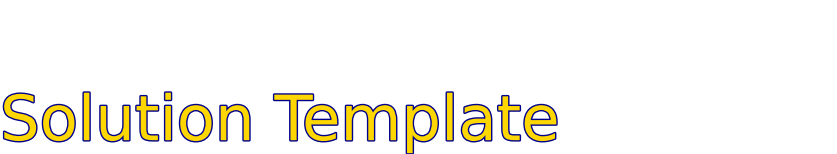
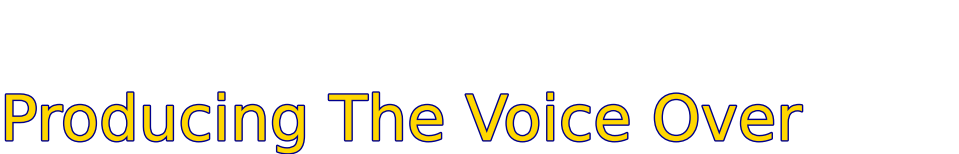
Automated 2024-10-27 commit

Changed region(s): [[0.0, 0.5974, 0.8387, 1.0]]

diff --git a/Producing The Voice Over.html b/Producing The Voice Over.html
@@ -1,0 +1,73 @@
+
+    <!DOCTYPE html>
+    <html lang="en">
+    <head>
+        <meta charset="UTF-8">
+        <meta name="viewport" content="width=device-width, initial-scale=1.0">
+        <title>Producing The Voice Over.html</title>
+        <style>
+            body { font-family: Arial, sans-serif; line-height: 1.6; margin: 20px; }
+            h1, h2, h3, h4, h5, h6 { color: #333; }
+            img { max-width: 100%; height: auto; }
+            pre, code { background: #f4f4f4; padding: 5px; border-radius: 5px; }
+            table { border-collapse: collapse; width: 100%; }
+            table, th, td { border: 1px solid #ddd; padding: 8px; }
+            th { background-color: #f2f2f2; }
+        </style>
+    </head>
+    <body>
+        <p><img alt="Image image_filename" src="solution_sign.png" /></p>
+<h1 id="producing-the-voice-over">Producing The Voice Over</h1>
+<h2 id="converts-solution-documentation-to-mp3-audio-for-voice-over">Converts solution documentation to MP3 audio for voice over</h2>
+<p><img alt="Solution" src="code.png" /></p>
+<h2 id="table-of-contents">Table of Contents</h2>
+<ul>
+<li><a href="#solution-overview">Solution Overview</a></li>
+<li><a href="#who-can-use">Who will use this ?</a></li>
+<li><a href="#advantages-of-using">Advantages of Using</a></li>
+<li><a href="#return-on-investment-roi">Return on Investment (ROI)</a></li>
+<li><a href="#how-it-works">How it Works</a></li>
+<li><a href="#conclusion">Conclusion</a></li>
+<li><a href="#getting-started">Getting Started</a></li>
+<li><a href="#solution-features">Solution Features</a></li>
+<li><a href="#code-features">Code Features</a></li>
+<li><a href="#deliverables-or-figures">Deliverables or Figures</a></li>
+<li><a href="#contact-information">Contact Information</a></li>
+</ul>
+<p><img alt="Solution" src="code.png" /></p>
+<p><img alt="Solution" src="code.png" /></p>
+<h2 id="getting-started">Getting Started</h2>
+<p>The goal of this solution is to <strong>Jump Start</strong> your development and have you up and running in 30 minutes. </p>
+<p>To get started with the <strong>Producing The Voice Over</strong> solution repository, follow these steps:
+1. Clone the repository to your local machine.
+2. Install the required dependencies listed at the top of the notebook.
+3. Explore the example code provided in the repository and experiment.
+4. Run the notebook and make it your own - <strong>EASY !</strong></p>
+<h2 id="solution-features">Solution Features</h2>
+<ul>
+<li>Easy to understand and use  </li>
+<li>Easily Configurable </li>
+<li>Quickly start your project with pre-built templates</li>
+<li>Its Fast and Automated</li>
+<li>Saves You Time </li>
+</ul>
+<h2 id="code-features">Code Features</h2>
+<p>These features are designed to provide everything you need for <strong>Producing The Voice Over</strong> </p>
+<ul>
+<li><strong>Self Documenting</strong> - Automatically identifes major steps in notebook </li>
+<li><strong>Self Testing</strong> - Unit Testing for each function</li>
+<li><strong>Easily Configurable</strong> - Easily modify with <strong>config.INI</strong> - keyname value pairs</li>
+<li><strong>Includes Talking Code</strong> - The code explains itself </li>
+<li><strong>Self Logging</strong> - Enhanced python standard logging   </li>
+<li><strong>Self Debugging</strong> - Enhanced python standard debugging</li>
+<li><strong>Low Code</strong> - or - No Code  - Most solutions are under 50 lines of code</li>
+<li><strong>Educational</strong> - Includes educational dialogue and background material</li>
+</ul>
+<h2 id="list-of-figures">List of Figures</h2>
+<p><img alt="additional_image" src="producing_the_voice_over.png" />  <br></p>
+<h2 id="github-httpsgithubcomjoeeberle-email-josepheberleoutlookcom">Github https://github.com/JoeEberle/ - Email  josepheberle@outlook.com</h2>
+<p><img alt="Developer" src="developer.png" /></p>
+<p><img alt="Brand" src="brand.png" /></p>
+    </body>
+    </html>
+    
